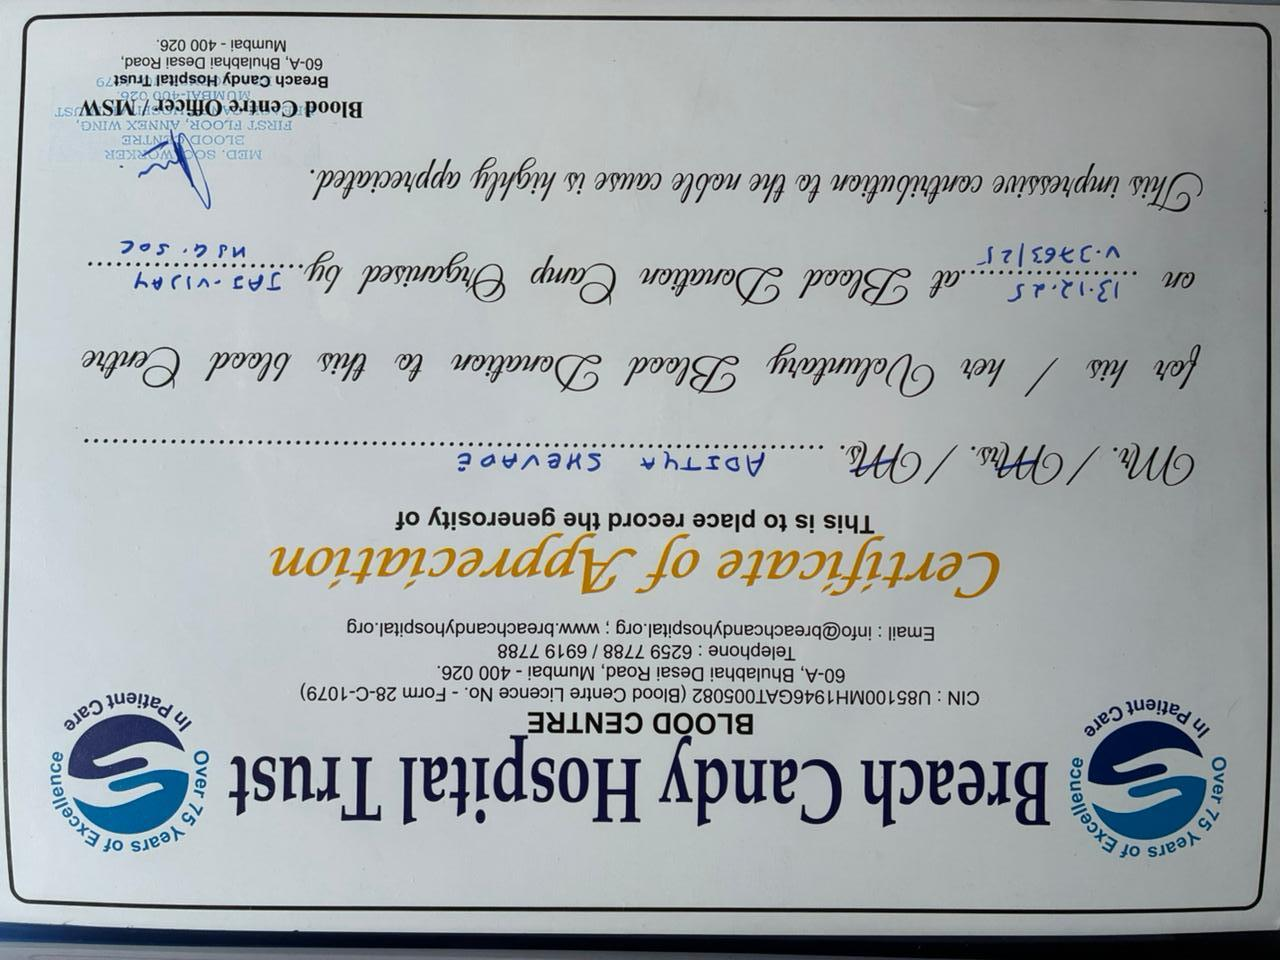
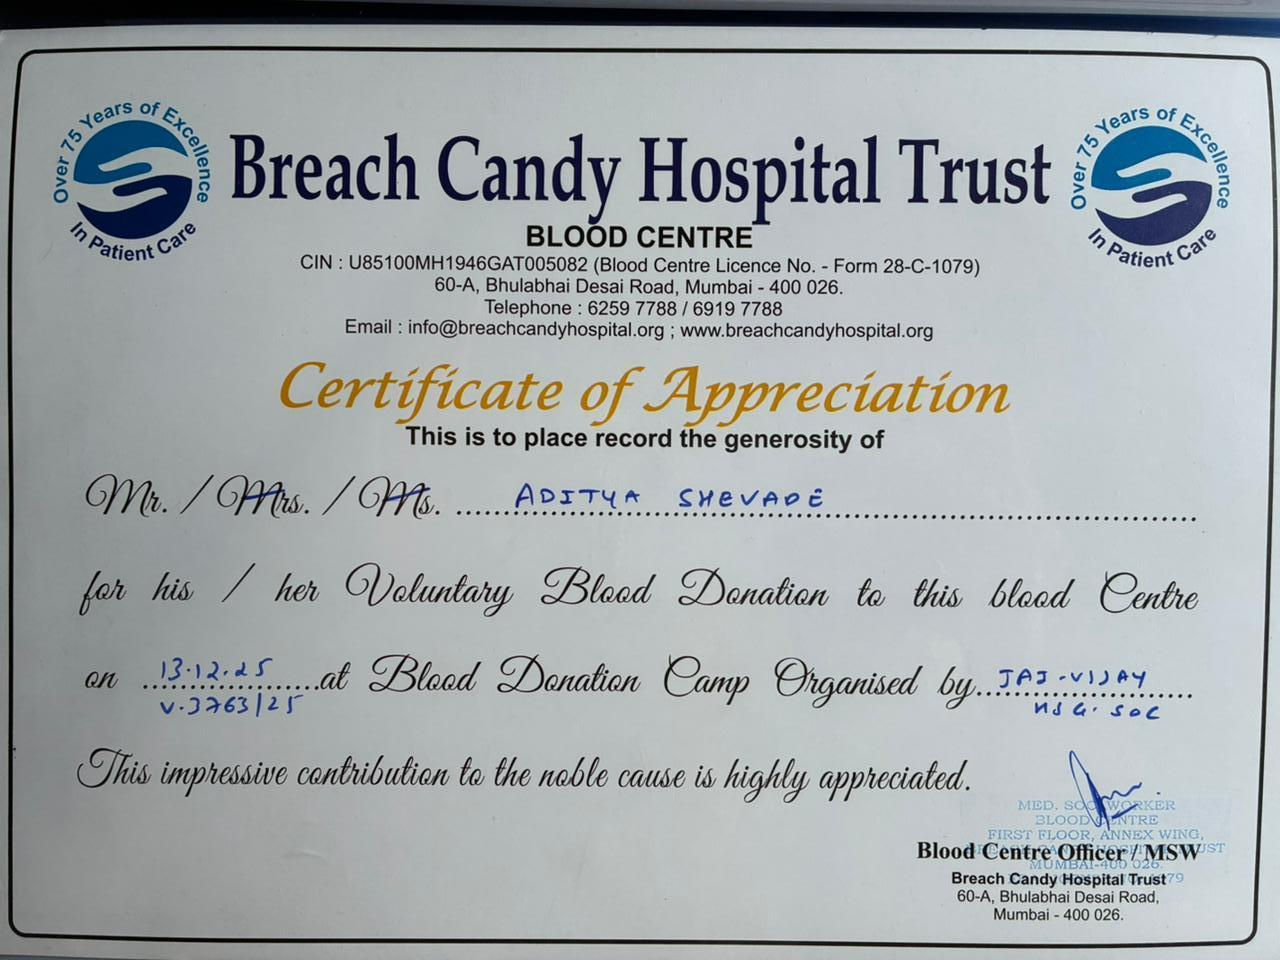
fix(ui): Correct image orientation and add image zoom modal

diff --git a/scratch/portfolio-website/src/pages/Home.tsx b/scratch/portfolio-website/src/pages/Home.tsx
@@ -2,11 +2,13 @@ import { ArrowRight, GraduationCap, Code, BookOpen, Dribbble, Waves, HeartPulse,
 import { Button } from "@/components/ui/button"
 import { Badge } from "@/components/ui/badge"
 import { Separator } from "@/components/ui/separator"
-import { motion } from "framer-motion"
+import { motion, AnimatePresence } from "framer-motion"
 import { Link } from "react-router-dom"
+import { useState } from "react"
 
 
 const Home = () => {
+    const [zoomedImage, setZoomedImage] = useState<string | null>(null)
     const projects = [
         {
             title: "Reader Segmentation",
@@ -251,7 +253,10 @@ const Home = () => {
                                 <p className="text-sm text-gray-400 text-center">Active contributor to local blood donation drives.</p>
                             </div>
                             <div className="grid grid-cols-2 gap-6">
-                                <div className="group relative rounded-sm overflow-hidden bg-[#141414] border border-gray-900 netflix-card-shadow aspect-[3/4]">
+                                <div
+                                    className="group relative rounded-sm overflow-hidden bg-[#141414] border border-gray-900 netflix-card-shadow aspect-[3/4] cursor-zoom-in"
+                                    onClick={() => setZoomedImage('/certificates/blood-donation-1.jpeg')}
+                                >
                                     <img
                                         src="/certificates/blood-donation-1.jpeg"
                                         alt="HDFC Bank Blood Donation"
@@ -262,7 +267,10 @@ const Home = () => {
                                         <p className="text-sm text-primary font-bold uppercase tracking-widest">13 Dec 2025</p>
                                     </div>
                                 </div>
-                                <div className="group relative rounded-sm overflow-hidden bg-[#141414] border border-gray-900 netflix-card-shadow aspect-[3/4]">
+                                <div
+                                    className="group relative rounded-sm overflow-hidden bg-[#141414] border border-gray-900 netflix-card-shadow aspect-[3/4] cursor-zoom-in"
+                                    onClick={() => setZoomedImage('/certificates/blood-donation-2.jpeg')}
+                                >
                                     <img
                                         src="/certificates/blood-donation-2.jpeg"
                                         alt="Breach Candy Hospital Blood Donation"
@@ -278,6 +286,28 @@ const Home = () => {
                     </section>
                 </div>
             </main>
+
+            {/* Zoom Modal */}
+            <AnimatePresence>
+                {zoomedImage && (
+                    <motion.div
+                        initial={{ opacity: 0 }}
+                        animate={{ opacity: 1 }}
+                        exit={{ opacity: 0 }}
+                        onClick={() => setZoomedImage(null)}
+                        className="fixed inset-0 z-[100] flex items-center justify-center bg-black/90 p-4 cursor-zoom-out backdrop-blur-sm"
+                    >
+                        <motion.img
+                            initial={{ scale: 0.9 }}
+                            animate={{ scale: 1 }}
+                            exit={{ scale: 0.9 }}
+                            src={zoomedImage}
+                            alt="Zoomed Certificate"
+                            className="max-w-full max-h-full object-contain rounded-md shadow-2xl"
+                        />
+                    </motion.div>
+                )}
+            </AnimatePresence>
         </motion.div>
     )
 }
